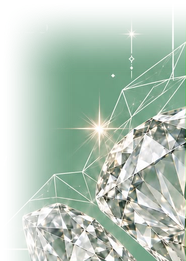
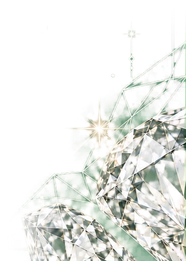
ASHTH launch: switch to the gatefold's colours — forest green ground, cream type, pale-sage interior with Brand Book ink; diamond corner art keyed off the sage so it sits on the forest
Claude-Session: https://claude.ai/code/session_01LLVnaJNQpFufKt8TdkCpcy

diff --git a/clients/ashth/launch/index.html b/clients/ashth/launch/index.html
@@ -6,7 +6,7 @@
 <title>You Are Invited | ASHTH Luxembourg Launch · 3 December 2026</title>
 <meta name="description" content="You are cordially invited to the ASHTH Luxembourg Launch: a private viewing of contemporary design, exceptional craftsmanship and conscious luxury. Thursday 3 December 2026, 5–10 PM, MOB-ART studio, Luxembourg.">
 <meta name="robots" content="noindex, nofollow">
-<meta name="theme-color" content="#7DA98E">
+<meta name="theme-color" content="#475C4C">
 <meta property="og:title" content="You are invited · ASHTH Luxembourg Launch · 3 December 2026">
 <meta property="og:description" content="A private viewing at MOB-ART studio, Luxembourg. Champagne · Wine · Canapés · Live Music. By invitation only.">
 <meta property="og:image" content="img/ring-green.jpg">
@@ -23,17 +23,18 @@
    the venue, the RSVP — and from there, the house.
    ───────────────────────────────────────────────────────────────────────── */
 :root{
-  --sage:#7DA98E;          /* ground behind the wash */
-  --sage-deep:#5F8A72;
-  --ivory:#F3EEE2;
-  --cream:#F1ECE0;         /* inside of the gatefold */
-  --cream-2:#F7F4EC;
-  --forest:#2F4A3C;        /* ink on cream */
-  --forest-deep:#24392E;
+  --ground:#475C4C;        /* the card's forest green, behind the wash */
+  --sage:#9DB5A3;          /* accent lines on light grounds */
+  --sage-deep:#5F7A66;
+  --ivory:#EDE6D3;         /* the card's cream type */
+  --cream:#E4EAE0;         /* inside of the card: pale sage */
+  --cream-2:#EEF2EB;
+  --forest:#2D3B2A;        /* ink on the pale sage (Brand Book green) */
+  --forest-deep:#1F2A1E;
   --teal:#2B6166;          /* shared ashth.com header/footer */
   --body:#4A5A50;
   --line:#D9D3C4;
-  --line-sage:rgba(243,238,226,.78);
+  --line-sage:rgba(237,230,211,.75);
   --white:#FFFFFF;
   --display:"Bodoni Moda","Cormorant Garamond",Georgia,serif;
   --serif:"Cormorant Garamond",Georgia,"Times New Roman",serif;
@@ -85,7 +86,7 @@ a{color:var(--forest)}
 .textlink svg{width:14px;height:14px}
 
 /* The sage watercolour ground, the ivory frame and the card's corner art */
-.ground{position:relative;overflow:hidden;background:var(--sage) url(img/wash.jpg) center/cover no-repeat;color:var(--ivory)}
+.ground{position:relative;overflow:hidden;background:var(--ground) url(img/wash.jpg) center/cover no-repeat;color:var(--ivory)}
 .ground .frame{position:absolute;inset:calc(22px*var(--cs)) calc(26px*var(--cs)) calc(24px*var(--cs)) calc(24px*var(--cs));border:2px solid var(--line-sage);pointer-events:none}
 .corner{position:absolute;pointer-events:none;background-repeat:no-repeat;background-size:100% 100%}
 .corner.tl{left:0;top:0;width:calc(340px*var(--cs));height:calc(360px*var(--cs));background-image:url(img/corner-tl.png)}
@@ -129,7 +130,7 @@ a{color:var(--forest)}
 .cover{display:flex;justify-content:center;text-align:center;padding:clamp(64px,7vw,110px) var(--gutter) clamp(72px,8vw,120px)}
 .cover .inner{position:relative;z-index:2;display:flex;flex-direction:column;align-items:center;gap:clamp(12px,1.4vw,20px);width:100%;max-width:780px}
 .cover .invite{font-family:var(--serif);font-style:italic;font-weight:500;font-size:clamp(22px,2.3vw,32px);letter-spacing:.03em;line-height:1.2;margin-top:4px}
-.cover .title{font-size:clamp(44px,7.2vw,104px);text-shadow:0 2px 18px rgba(47,74,60,.22)}
+.cover .title{font-size:clamp(44px,7.2vw,104px);text-shadow:0 2px 18px rgba(0,0,0,.22)}
 .cover .caps-serif{font-size:clamp(14px,1.35vw,21px)}
 .cover .sub{letter-spacing:.3em}
 .cover .viewing{font-family:var(--serif);font-weight:600;letter-spacing:.34em;text-transform:uppercase;font-size:clamp(20px,2vw,30px);line-height:1.2}
@@ -163,7 +164,7 @@ a{color:var(--forest)}
 .leaf.side.left .drop{left:calc(60px*var(--cs))}.leaf.side.right .drop{right:calc(60px*var(--cs))}
 .leaf.centre{background:var(--cream);color:var(--forest);padding:clamp(48px,5vw,80px) clamp(24px,4vw,64px)}
 .leaf.centre .card{position:relative;max-width:720px;margin:0 auto;padding:clamp(36px,4vw,56px) clamp(20px,3vw,44px);border:1px solid var(--forest);display:flex;flex-direction:column;align-items:center;text-align:center;gap:clamp(12px,1.4vw,18px)}
-.leaf.centre .card::before{content:"";position:absolute;inset:6px;border:1px solid rgba(47,74,60,.25);pointer-events:none}
+.leaf.centre .card::before{content:"";position:absolute;inset:6px;border:1px solid rgba(45,59,42,.25);pointer-events:none}
 .leaf.centre .lockup .mark{width:clamp(64px,6.4vw,84px)}
 .leaf.centre .lockup .word{width:clamp(150px,16vw,200px);margin-top:10px}
 .leaf.centre .eyebrow{font-family:var(--serif);font-weight:500;letter-spacing:.3em;text-transform:uppercase;font-size:clamp(12px,1vw,15px);color:var(--sage-deep)}
@@ -225,7 +226,7 @@ a{color:var(--forest)}
 .host .portrait img{position:relative;z-index:1;width:100%;height:auto;aspect-ratio:4/5;object-fit:cover;object-position:center top}
 .host .text{flex:1.3 1 440px;min-width:0;display:flex;flex-direction:column;gap:18px}
 .host .caps{color:var(--ivory);opacity:.9}
-.host h2{font-family:var(--display);font-weight:700;letter-spacing:.03em;text-transform:uppercase;font-size:clamp(30px,3.2vw,48px);line-height:1.02;color:var(--ivory);margin:0;text-shadow:0 2px 14px rgba(47,74,60,.2)}
+.host h2{font-family:var(--display);font-weight:700;letter-spacing:.03em;text-transform:uppercase;font-size:clamp(30px,3.2vw,48px);line-height:1.02;color:var(--ivory);margin:0;text-shadow:0 2px 14px rgba(0,0,0,.2)}
 .host p{color:var(--ivory);max-width:38em}
 .host .bio{font-size:clamp(19px,1.4vw,23px);line-height:1.45}
 .host .rsvp{display:flex;flex-wrap:wrap;align-items:center;gap:16px 28px;padding-top:6px}
@@ -240,7 +241,7 @@ a{color:var(--forest)}
 .tile{position:relative;display:block;aspect-ratio:4/5;overflow:hidden;background:var(--forest);color:var(--ivory);text-decoration:none}
 .tile img{width:100%;height:100%;object-fit:cover;transition:transform .8s cubic-bezier(.2,.7,.2,1);will-change:transform}
 .tile:hover img{transform:scale(1.05)}
-.tile .veil{position:absolute;inset:0;background:linear-gradient(180deg,rgba(36,57,46,0) 40%,rgba(36,57,46,.82) 100%)}
+.tile .veil{position:absolute;inset:0;background:linear-gradient(180deg,rgba(31,42,30,0) 40%,rgba(31,42,30,.84) 100%)}
 .tile .cap{position:absolute;left:0;right:0;bottom:0;padding:22px 22px 24px;display:flex;flex-direction:column;gap:6px}
 .tile .cap small{font-family:var(--sans);font-size:11px;letter-spacing:.3em;text-transform:uppercase;color:var(--ivory);opacity:.85}
 .tile .cap b{font-family:var(--serif);font-weight:600;font-size:clamp(26px,2vw,32px);line-height:1.1;letter-spacing:.01em}
@@ -264,7 +265,7 @@ a{color:var(--forest)}
 .footer .legal .inner{display:flex;flex-wrap:wrap;justify-content:space-between;gap:6px 32px;padding-block:14px;font-size:13px;line-height:1.6}
 
 /* ── Phone action bar (guests arrive from the QR code on a phone) ──────── */
-.actionbar{position:fixed;left:0;right:0;bottom:0;z-index:60;display:none;grid-template-columns:1.3fr 1fr 1fr;gap:8px;background:rgba(47,74,60,.96);backdrop-filter:blur(10px);border-top:1px solid rgba(243,238,226,.35);padding:10px 12px calc(10px + env(safe-area-inset-bottom));transform:translateY(110%);transition:transform .35s cubic-bezier(.2,.7,.2,1)}
+.actionbar{position:fixed;left:0;right:0;bottom:0;z-index:60;display:none;grid-template-columns:1.3fr 1fr 1fr;gap:8px;background:rgba(31,42,30,.96);backdrop-filter:blur(10px);border-top:1px solid rgba(237,230,211,.35);padding:10px 12px calc(10px + env(safe-area-inset-bottom));transform:translateY(110%);transition:transform .35s cubic-bezier(.2,.7,.2,1)}
 .actionbar a{display:inline-flex;align-items:center;justify-content:center;gap:8px;min-height:46px;font-family:var(--sans);font-size:11px;font-weight:500;letter-spacing:.18em;text-transform:uppercase;text-decoration:none;border:1px solid var(--ivory);color:var(--ivory)}
 .actionbar a svg{width:15px;height:15px}
 .actionbar a.primary{background:var(--ivory);color:var(--forest)}
